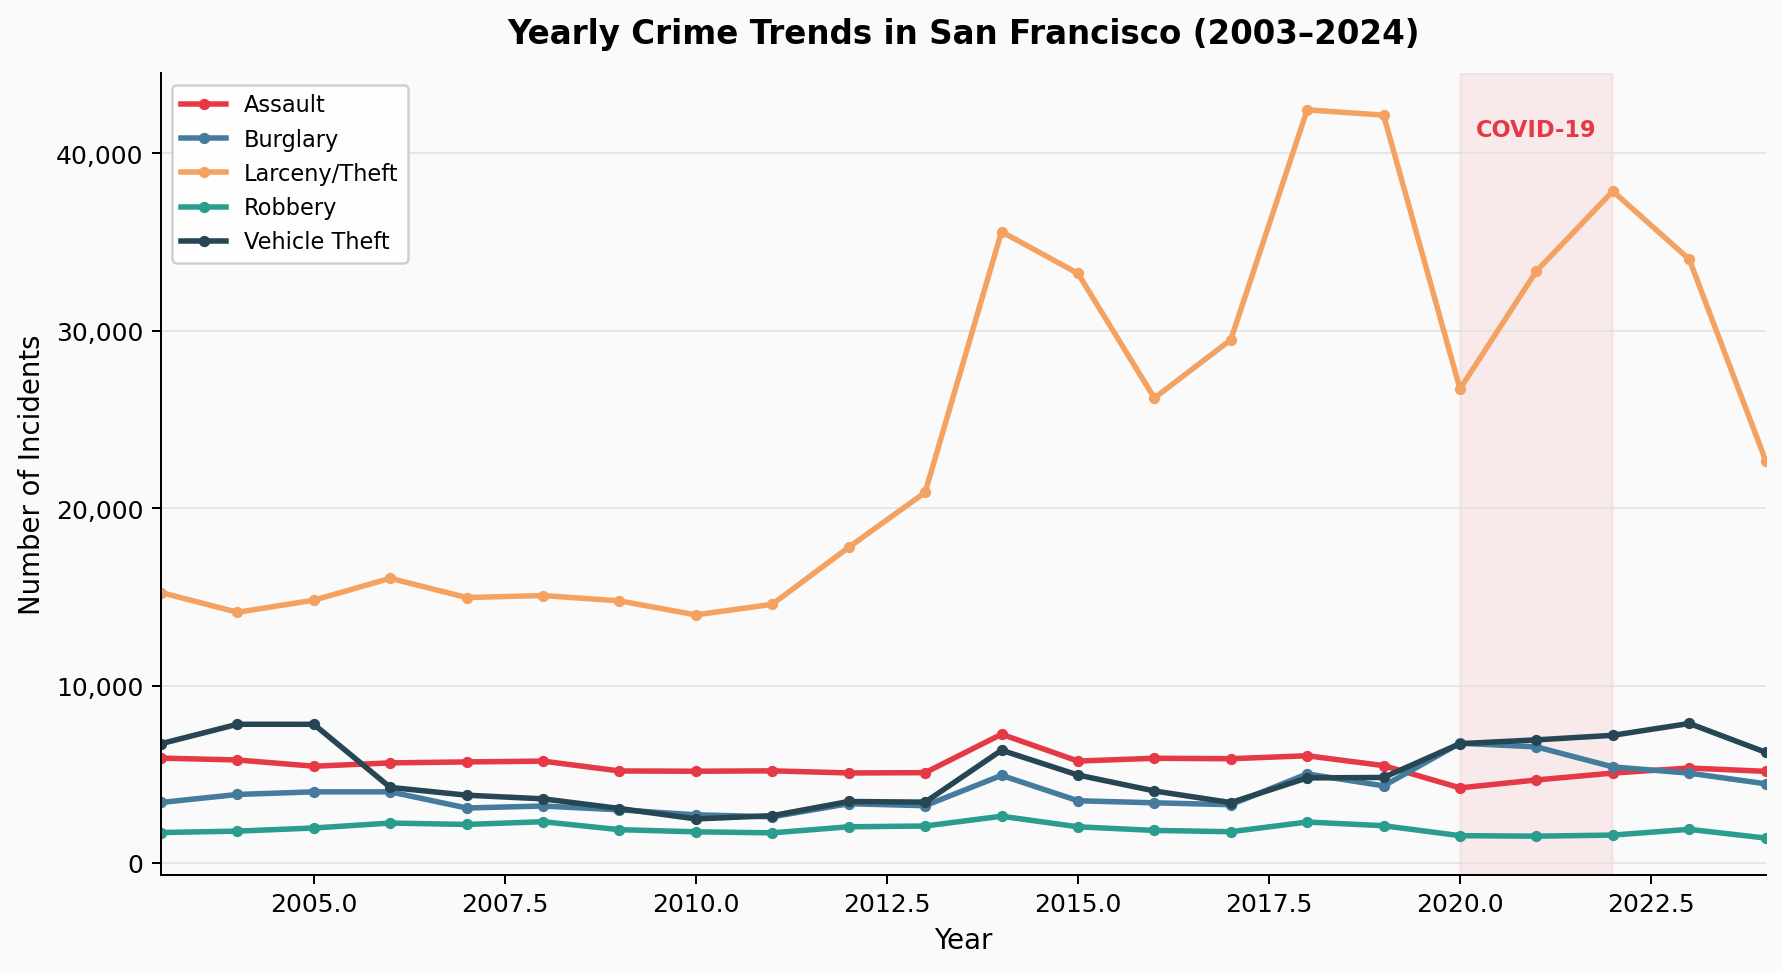
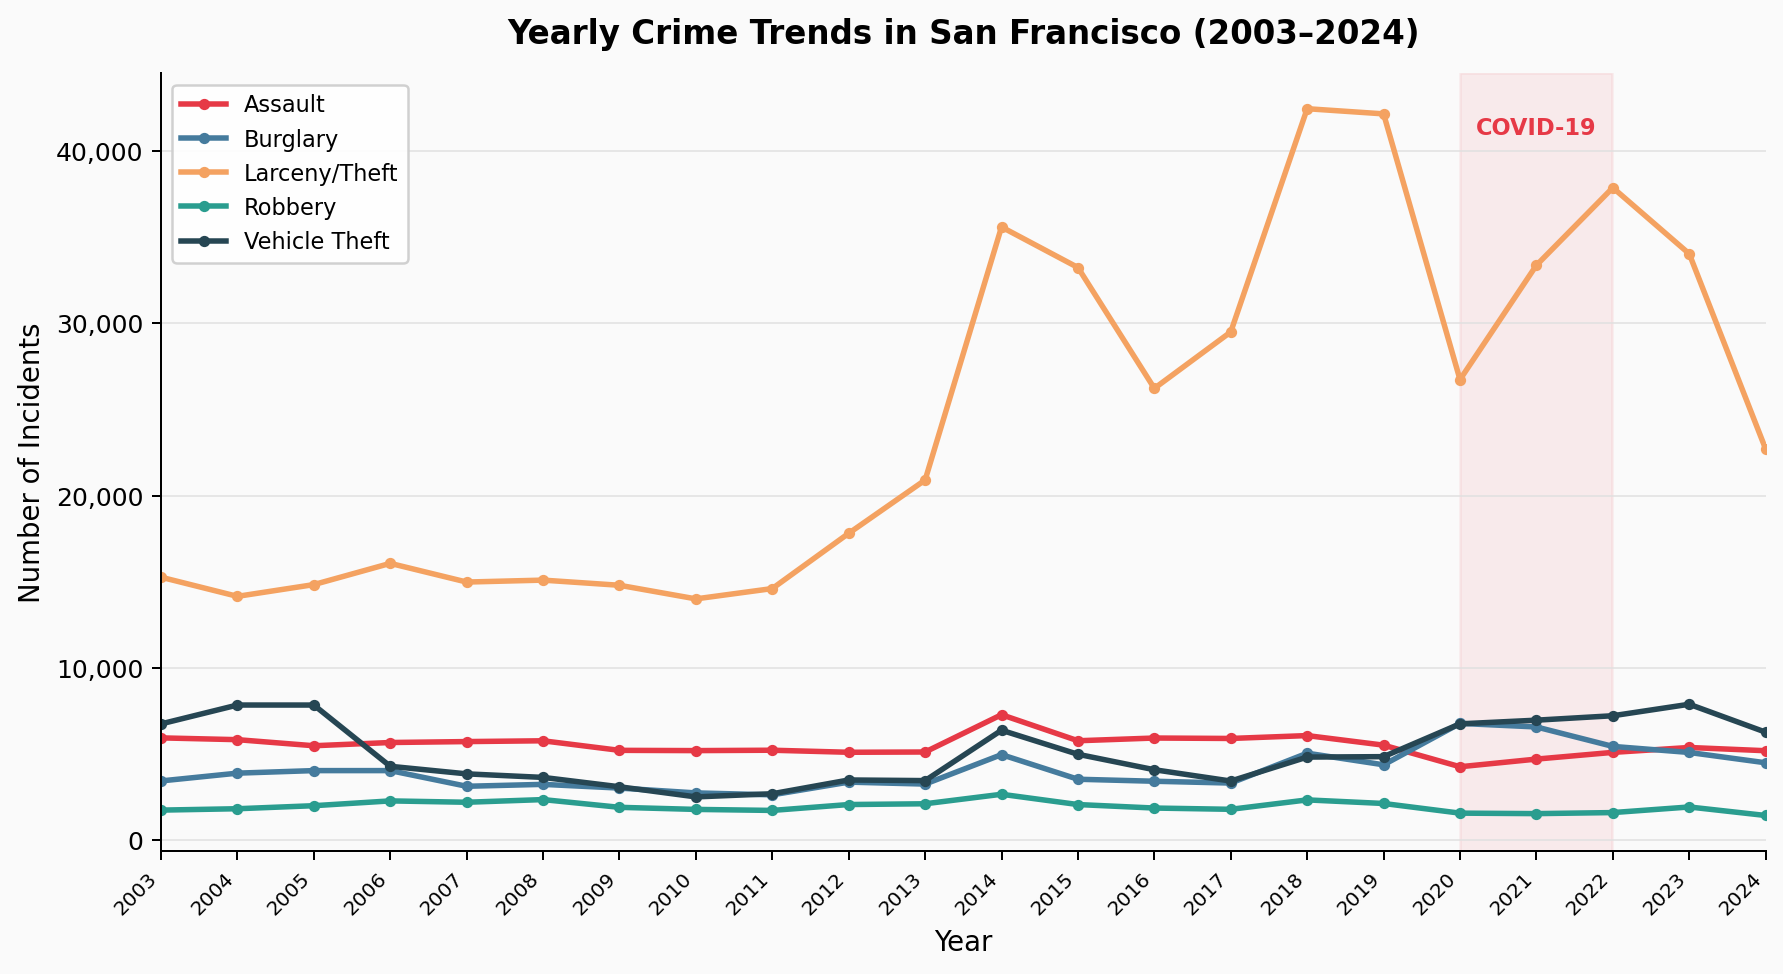
Fix x-axis integer years, mobile responsive iframes, and polish
- Static chart: force integer year ticks on x-axis (no more decimals)
- index.html: responsive iframe heights (520px desktop, 360px mobile)
- index.html: district comparison iframe taller (660px)
- index.html: clean byline (removed Week 8 label)
- index.html: add meta description tag
- index.html: footer GitHub link points to actual repo

diff --git a/index.html b/index.html
@@ -4,6 +4,7 @@
     <meta charset="UTF-8">
     <meta name="viewport" content="width=device-width, initial-scale=1.0">
     <title>When the City Emptied, Crime Didn't Vanish: It Moved</title>
+    <meta name="description" content="Two decades of San Francisco crime data reveal how COVID-19 didn't reduce crime — it redistributed it. An interactive data story analyzing 2.5 million SFPD incident reports from 2003 to 2024.">
     <style>
         :root {
             --primary-dark: #1d3557;
@@ -98,6 +99,13 @@
             border: none;
             border-radius: 4px;
             display: block;
+            height: 520px;
+        }
+
+        @media (max-width: 600px) {
+            .viz-card iframe {
+                height: 360px;
+            }
         }
         figcaption {
             font-size: 0.88rem;
@@ -192,7 +200,7 @@
     <p class="subtitle">
         How two decades of San Francisco police data reveal a pandemic that didn't reduce crime, but reshuffled who became a target and where.
     </p>
-    <p class="byline">DTU 02806 &middot; Social Data Analysis &amp; Visualization &middot; Week 8 Data Story</p>
+    <p class="byline">DTU 02806 &middot; Social Data Analysis &amp; Visualization &middot; Data Story</p>
 </header>
 
 
@@ -330,7 +338,6 @@
 <figure>
     <div class="viz-card">
         <iframe src="visualizations/burglary_heatmap.html"
-                height="520"
                 loading="lazy"
                 title="Interactive Folium heatmap comparing burglary hotspots before and during COVID"></iframe>
     </div>
@@ -361,7 +368,7 @@
 <figure>
     <div class="viz-card">
         <iframe src="visualizations/district_comparison.html"
-                height="580"
+                style="height: 660px;"
                 loading="lazy"
                 title="Interactive Plotly grouped bar chart comparing crime by district across three COVID periods"></iframe>
     </div>
@@ -461,7 +468,7 @@
 <footer>
     Data: SF Police Department incident reports (2003–2024) &middot;
     Built for DTU 02806 Social Data Analysis &amp; Visualization &middot;
-    <a href="https://github.com/" style="color:#457b9d;">GitHub Pages</a>
+    <a href="https://github.com/AbinavReddy/AbinavReddy.github.io" style="color:#457b9d;">GitHub</a>
 </footer>
 
 </body>

diff --git a/scripts/static_chart.py b/scripts/static_chart.py
@@ -53,6 +53,9 @@ def create_yearly_trends_chart():
     ax.legend(frameon=True, fontsize=9, loc="upper left", framealpha=0.9)
     ax.yaxis.set_major_formatter(ticker.FuncFormatter(lambda x, _: f"{int(x):,}"))
     ax.set_xlim(2003, 2024)
+    ax.xaxis.set_major_locator(ticker.MultipleLocator(1))
+    ax.xaxis.set_major_formatter(ticker.FuncFormatter(lambda x, _: str(int(x))))
+    plt.setp(ax.get_xticklabels(), rotation=45, ha="right", fontsize=8)
     ax.grid(axis="y", color=GRID_COLOR, linewidth=0.6)
     ax.spines[["top", "right"]].set_visible(False)
 
